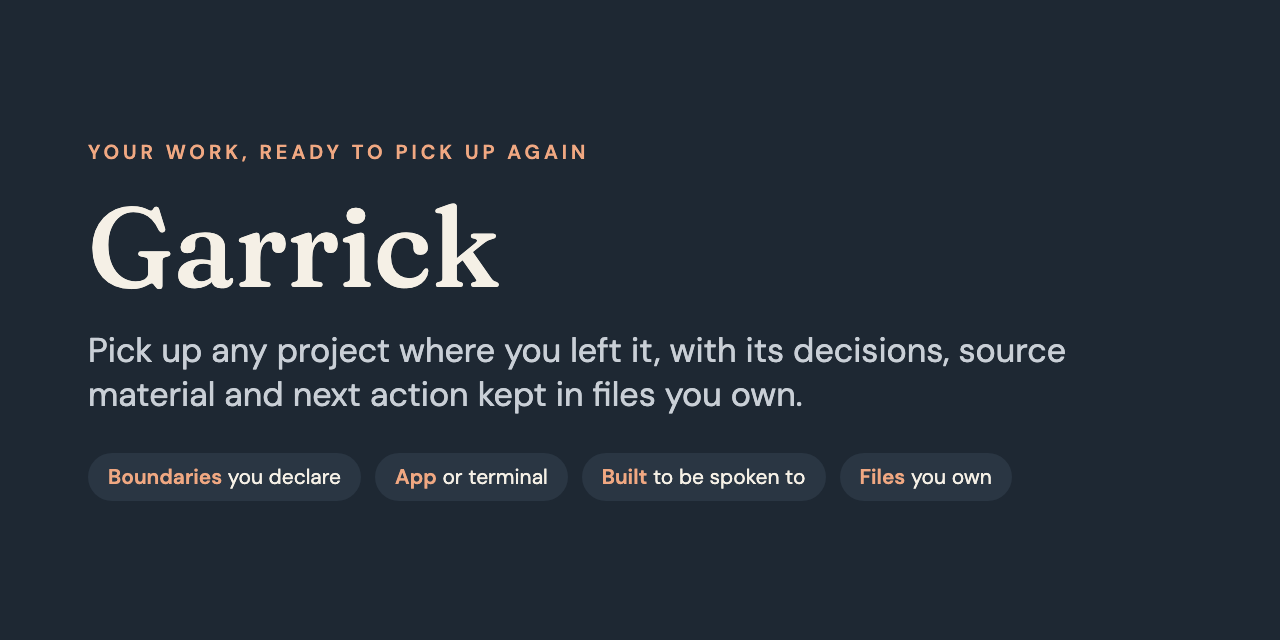
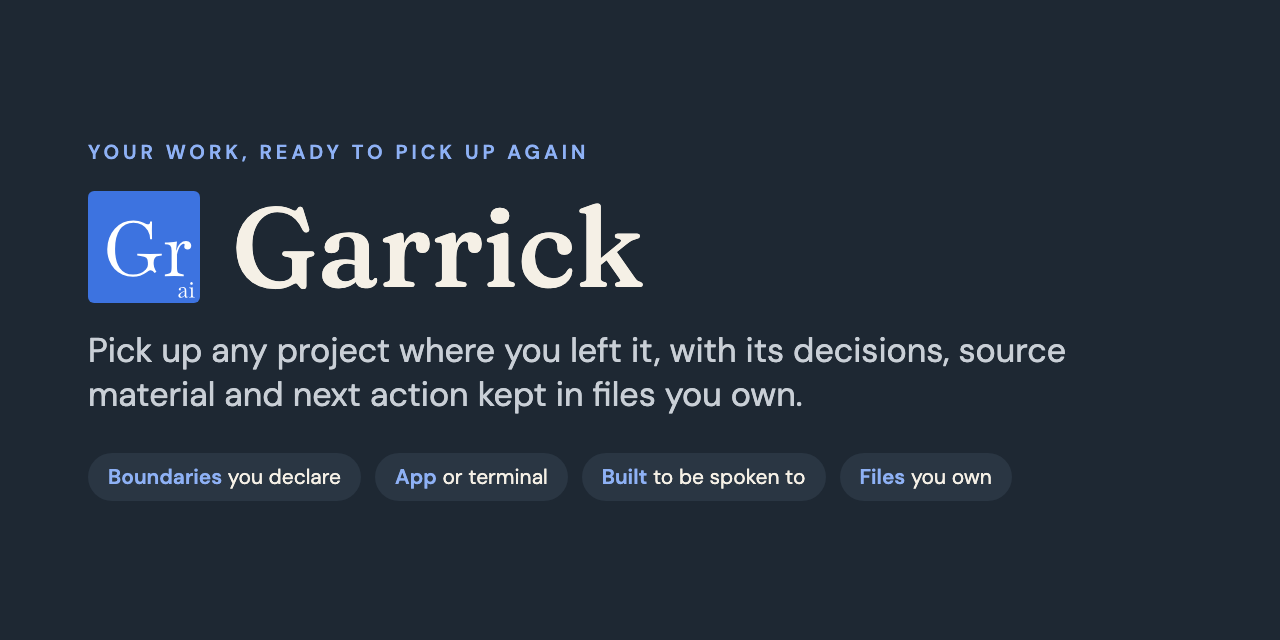
Social card: the mark beside the name, accents in the mark's blue
The card keeps its navy ground and wording; the name now sits beside
the full mark, and the eyebrow and chip keywords take the light blue
used on navy in the deck. GitHub's social preview has no API: the new
PNG goes up by hand in the repository settings.

diff --git a/docs/assets/social-preview.html b/docs/assets/social-preview.html
@@ -4,16 +4,18 @@
 <style>
   html,body{margin:0;width:1280px;height:640px;background:#1E2833;overflow:hidden}
   .card{box-sizing:border-box;width:1280px;height:640px;padding:72px 88px;display:flex;flex-direction:column;justify-content:center;gap:26px;font-family:'DM Sans',Arial,sans-serif;color:#F5F0E6}
-  .eyebrow{font-size:20px;font-weight:600;letter-spacing:4px;text-transform:uppercase;color:#F0A882;margin:0}
+  .eyebrow{font-size:20px;font-weight:600;letter-spacing:4px;text-transform:uppercase;color:#8EB1F5;margin:0}
   h1{font-family:'Fraunces',Georgia,serif;font-weight:500;font-size:112px;line-height:1;margin:0}
   .tag{font-size:34px;line-height:1.3;color:#C9CFD6;margin:0;max-width:1000px}
   .pills{display:flex;gap:14px;margin-top:10px;flex-wrap:wrap}
   .pills span{font-size:21px;padding:10px 20px;border-radius:999px;background:#2A3643;color:#F5F0E6}
-  .pills span b{color:#F0A882;font-weight:600}
+  .pills span b{color:#8EB1F5;font-weight:600}
+  .lockup{display:flex;align-items:center;gap:32px}
+  .lockup svg{width:112px;height:112px;flex:none}
 </style></head>
 <body><div class="card">
   <p class="eyebrow">Your work, ready to pick up again</p>
-  <h1>Garrick</h1>
+  <div class="lockup"><svg viewBox="0 0 64 64" xmlns="http://www.w3.org/2000/svg"><rect width="64" height="64" rx="3.5" fill="#3D73E0"/><path d="M397 -11Q325 -11 263.5 15.5Q202 42 157.0 90.5Q112 139 87.0 204.5Q62 270 62 348Q62 427 88.0 495.5Q114 564 160.5 615.0Q207 666 269.0 695.0Q331 724 403 724Q436 724 468.0 717.5Q500 711 536 692Q558 681 570.0 677.0Q582 673 592 673Q621 673 621 710H646L644 595L646 478H621Q619 543 590.5 591.5Q562 640 513.5 667.0Q465 694 402 694Q289 694 226.5 604.0Q164 514 164 350Q164 190 224.5 104.5Q285 19 398 19Q451 19 495.0 36.5Q539 54 565.5 83.0Q592 112 592 146V174Q592 218 571.5 237.0Q551 256 496 261L453 265V289L619 285L773 289V265L728 261Q667 255 667 174V156Q667 118 689 79L703 54L680 39Q656 75 629 75Q619 75 611.5 71.5Q604 68 576 48Q533 17 490.0 3.0Q447 -11 397 -11Z" fill="#FFFFFF" transform="translate(8.28 48.54) scale(0.04384 -0.04384)"/><path d="M28 -3V20L44 22Q77 26 92.0 33.5Q107 41 111.5 61.0Q116 81 116 121V329Q116 378 97.5 395.5Q79 413 28 413V436Q68 436 105.5 439.0Q143 442 186 448L175 333H186V121Q186 81 190.5 61.0Q195 41 210.5 33.5Q226 26 258 22L274 20V-3L151 0ZM184 269 173 312Q194 391 228.0 422.5Q262 454 304 454Q344 454 358.0 434.0Q372 414 372 394Q372 372 359.0 358.0Q346 344 323 344Q305 344 293.0 353.5Q281 363 281 378Q281 383 282.0 387.0Q283 391 284 398Q285 402 285.5 405.0Q286 408 286 410Q286 420 272 420Q254 420 236.5 399.5Q219 379 205.0 345.0Q191 311 184 269Z" fill="#FFFFFF" transform="translate(42.69 48.54) scale(0.04384 -0.04384)"/><path d="M405 -11Q362 -11 343.5 16.0Q325 43 325 104V320Q325 379 302.5 404.0Q280 429 227 429Q191 429 169.5 420.0Q148 411 148 396Q148 392 149.5 387.5Q151 383 152 377Q157 357 157 349Q157 333 144.5 321.5Q132 310 112 310Q93 310 81.0 323.5Q69 337 69 358Q69 386 91.5 407.5Q114 429 153.5 441.5Q193 454 244 454Q323 454 359.0 416.5Q395 379 395 296V116Q395 65 403.0 44.5Q411 24 430 24Q444 24 455.5 33.5Q467 43 472 59L490 52Q472 -11 405 -11ZM163 -11Q112 -11 81.0 14.0Q50 39 50 79Q50 117 81.0 151.5Q112 186 180 223Q210 240 247.0 256.5Q284 273 329 289L330 270Q233 230 180.5 182.0Q128 134 128 87Q128 58 145.0 42.0Q162 26 193 26Q221 26 248.5 40.5Q276 55 297.5 78.5Q319 102 328 130L334 97Q309 47 263.5 18.0Q218 -11 163 -11Z" fill="#FFFFFF" transform="translate(50.99 60.86) scale(0.01310 -0.01310)"/><path d="M28 -3V20L44 22Q77 26 92.0 33.5Q107 41 111.5 61.0Q116 81 116 121V332Q116 377 98.0 395.0Q80 413 35 413H28V436Q78 436 114.5 438.5Q151 441 186 448V121Q186 81 190.5 61.0Q195 41 210.5 33.5Q226 26 258 22L274 20V-3L151 0ZM132 554Q106 554 91.0 572.0Q76 590 76 615Q76 641 91.0 658.5Q106 676 132 676Q161 676 174.5 658.5Q188 641 188 615Q188 590 174.5 572.0Q161 554 132 554Z" fill="#FFFFFF" transform="translate(57.41 60.86) scale(0.01310 -0.01310)"/></svg><h1>Garrick</h1></div>
   <p class="tag">Pick up any project where you left it, with its decisions, source material and next action kept in files you own.</p>
   <div class="pills"><span><b>Boundaries</b> you declare</span><span><b>App</b> or terminal</span><span><b>Built</b> to be spoken to</span><span><b>Files</b> you own</span></div>
 </div></body></html>
